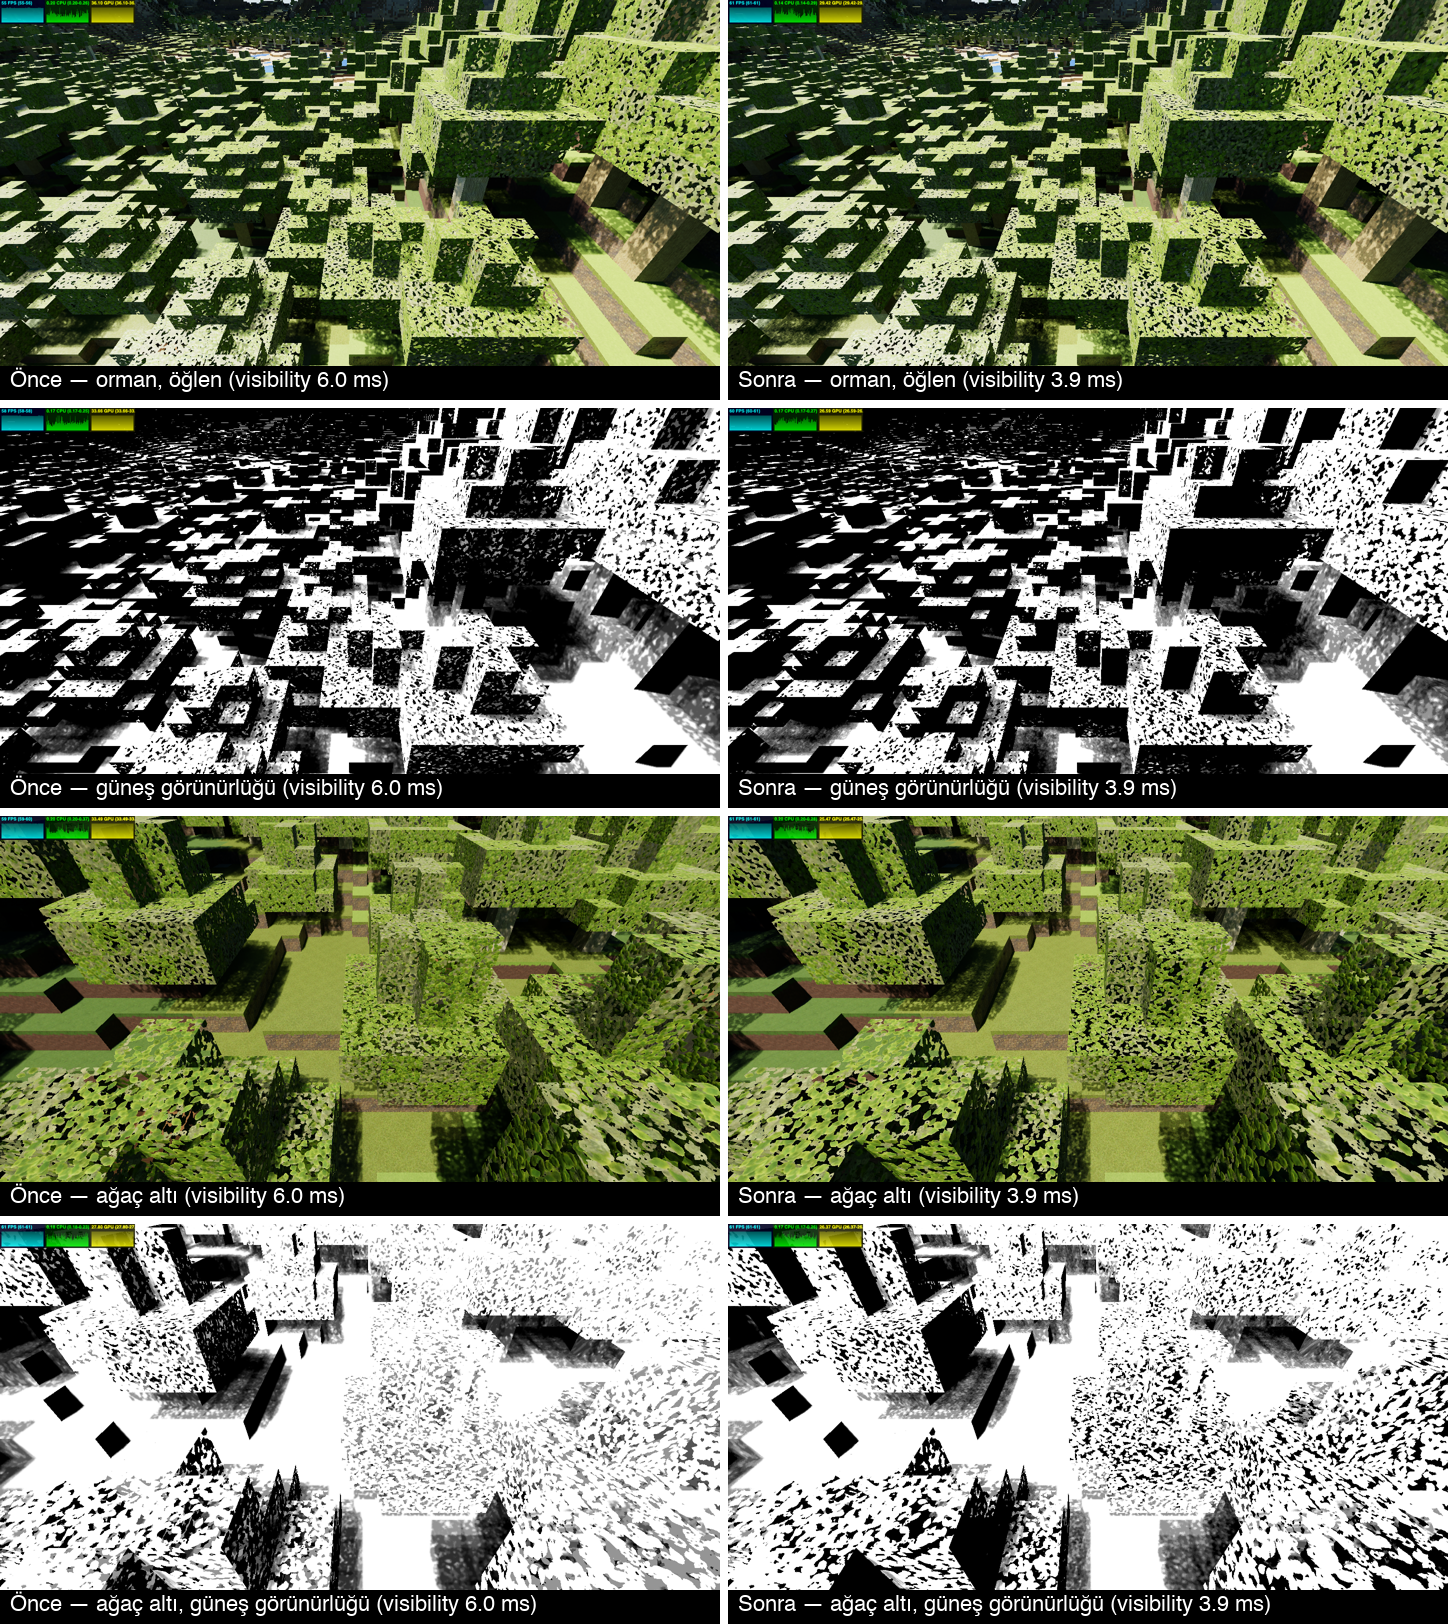
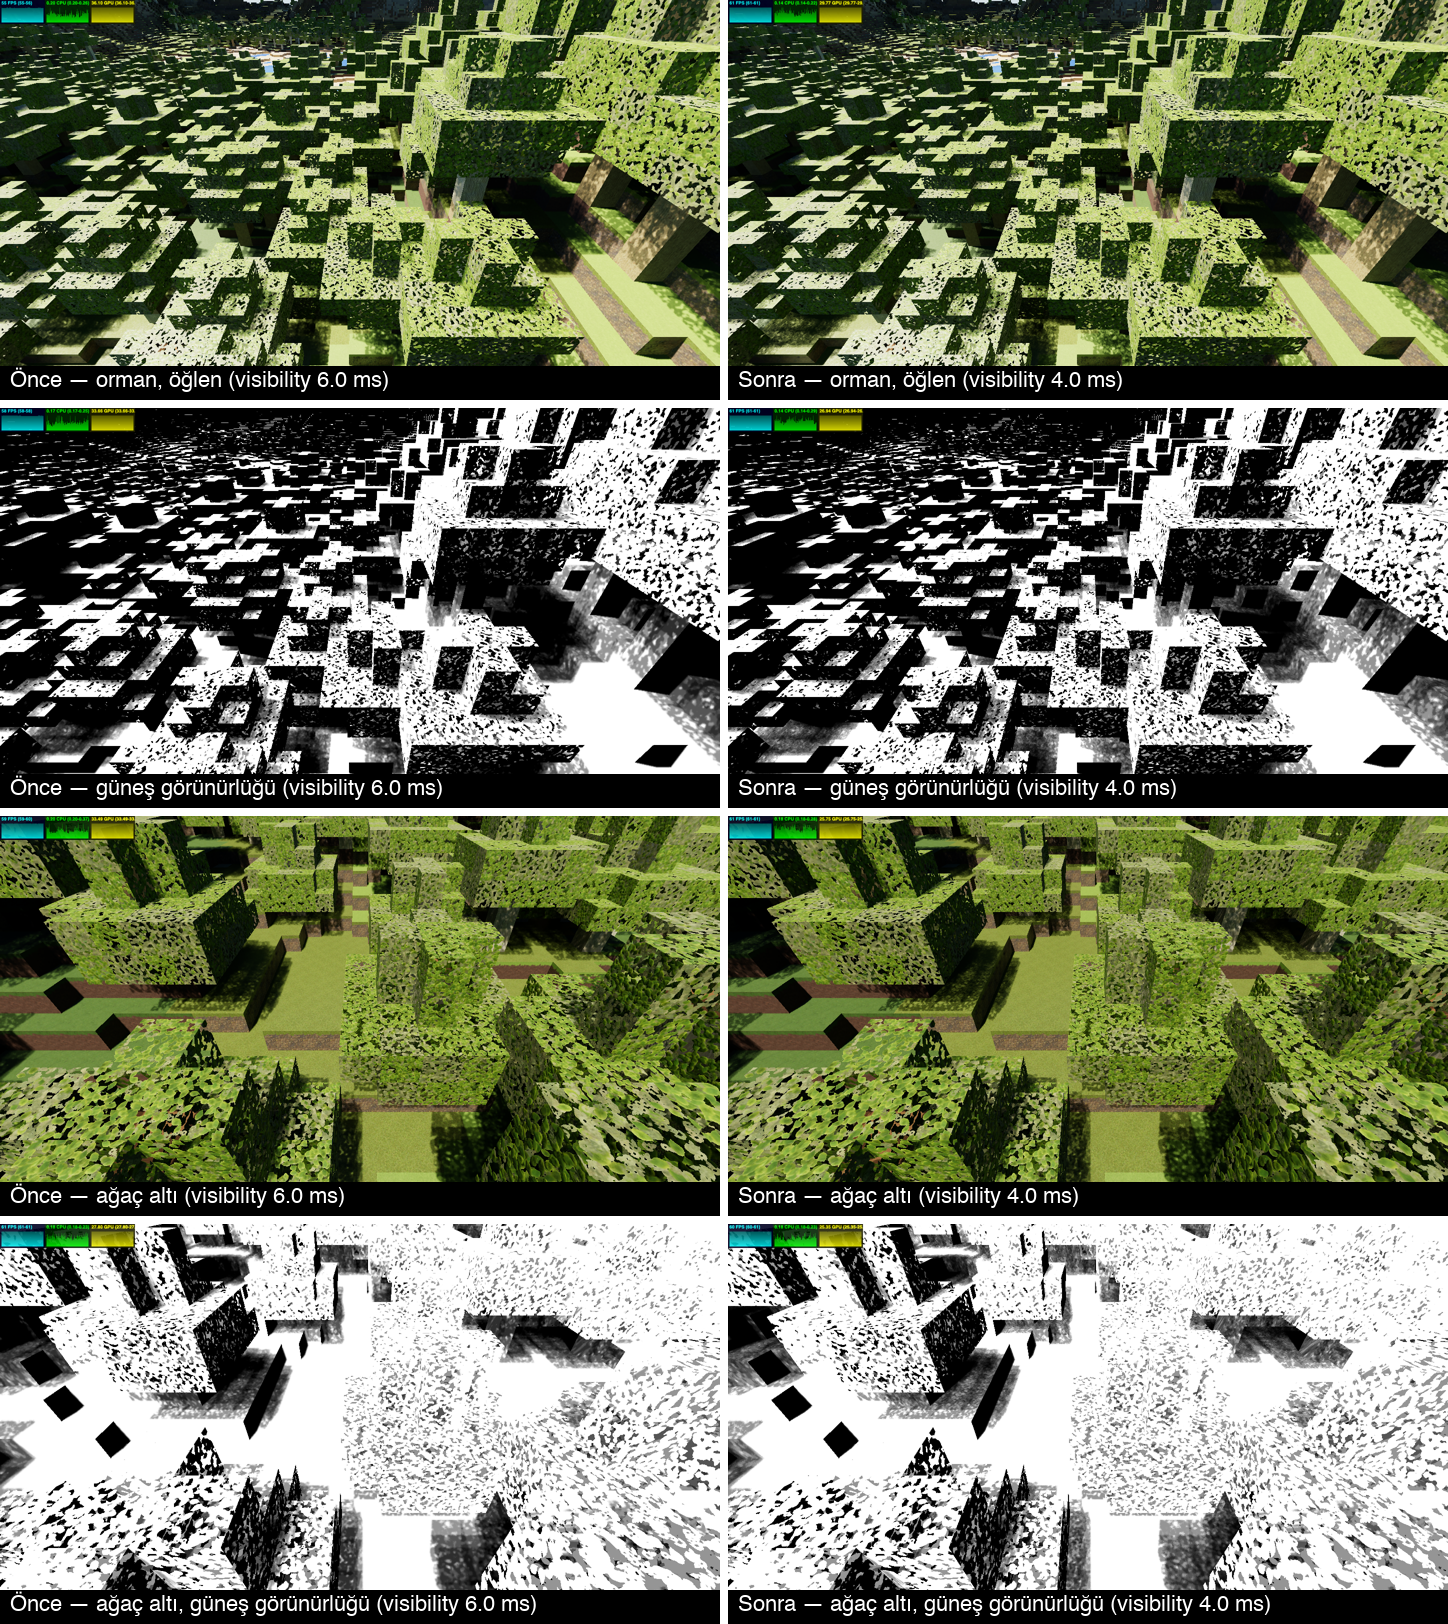
fix: leaf shadow start voxel edge case

diff --git a/src/ui/debug-overlay.ts b/src/ui/debug-overlay.ts
@@ -338,6 +338,7 @@ export class DebugOverlay {
     f.add(l.flicker, 'speed', 0, 10, 0.1).name('flicker speed');
     f.add(l, 'subsurface', 0, 2, 0.05).name('leaf translucency');
     f.add(l, 'leafTransmission', 0, 1, 0.05).name('leaf transmission');
+    f.add(l, 'maxLeafLayers', 1, 12, 1).name('leaf layers light passes');
     f.add(l, 'model', { physical: 'physical', 'debug-fill': 'debug-fill' }).name('lighting');
     f.add(l.debugFill, 'maxDirectToSky', 0, 20, 0.5).name('fill: max sun : sky');
     f.add(l.debugFill, 'ambientFloor', 0, 0.5, 0.01).name('fill: ambient floor');

diff --git a/src/gpu/passes/visibility-pass.ts b/src/gpu/passes/visibility-pass.ts
@@ -156,6 +156,8 @@ export class VisibilityPass implements RenderPass {
     new Uint32Array(p).set([config.trace.maxSteps, block, l.skyVisibilitySteps], 2);
     new Float32Array(p)[5] = l.leafTransmission;
     new Uint32Array(p)[6] = config.gi.enabled ? 0 : 1;
+    // Slightly below t^N so the N-th texel still passes light.
+    new Float32Array(p)[7] = 0.99 * l.leafTransmission ** l.maxLeafLayers;
     this.device.queue.writeBuffer(this.params, 0, p);
     // How fast the camera moves this frame (0 still … 1 fast): translation plus rotation.
     const c = ctx.camera;

diff --git a/src/config.ts b/src/config.ts
@@ -336,6 +336,8 @@ export const config = {
     subsurface: 0.5,
     /** Fraction of light a leaf voxel lets through for shadow / sky rays. */
     leafTransmission: 0.3,
+    /** Shadow rays carry light through at most this many opaque leaf texels. */
+    maxLeafLayers: 6,
     /** 'physical': sun + atmosphere only. 'debug-fill': adds the non-physical fill lights
      *  below, only for comparison (not a fix — GI will supply bounce light). */
     model: 'physical' as 'physical' | 'debug-fill',

diff --git a/CLAUDE.md b/CLAUDE.md
@@ -49,6 +49,6 @@ Tarayıcıda çalışan, fotogerçekçi görüntüye sahip, tek oyunculu bir vox
 - **Performans ölçümü**: per-pass profiler Apple GPU'larında pass'ler arası beklemeyi de sayıyor (değerler şişkin). Karar için F3 → "Benchmark primary" kullan: primary pass'i (ön geçiş dahil) tek komut arabelleğinde N kez art arda çalıştırır; zaman damgası ve duvar saati birlikte raporlanır, ayrıca G-buffer'dan ortalama/%95 adım sayısı. Ölçümler bu Mac'te ±%10 gürültülü; karşılaştırmada birkaç tekrarın minimumu kullanılır. Tekrarlanabilir görüntü için URL: `?cam=x,y,z,yaw,pitch&view=steps&scale=1&wg=8x8&tile=8&dmax=8`. Referans pozlar (seed 1337): spawn `0.5,234,0.5,0,-20`, ufuk `…,90,0`, aşağı `…,200,-55`.
 - **Materyaller** (`scripts/`, `src/gpu/materials.ts`, `src/shaders/material.wgsl`, `mipgen.wgsl`): dokular ambientCG'den (hepsi CC0 1.0) `npm run textures` ile indirilip paketlenir; `scripts/texture-spec.ts` materyal → varyant/kaynak tek kaynağıdır, `assets/CREDITS.md` otomatik yazılır, ham dosyalar (`assets/raw/`) ve paketler (`public/textures/`) git'e girmez. Paketleyici 512 px çalışma boyutunda üretir: gerçek ölçeğe kırpma (blok yüzü = 1 m) + kenar harmanlamasıyla tekrar döşenebilirlik (ton eşitleme ve albedo kalibrasyonu yok: her varyant kaynak dokusunun renginde), yapraklar tekil yaprak sprite'larından saçılır (alfa arka planı ortalama yaprak rengiyle dolu), çim yanı = toprak + tırtıklı çim şeridi, kütük üstü/su/cam/meşale prosedürel. Kanal düzeni LabPBR benzeri: albedo (sRGB + opaklık), normal (XY OpenGL + AO + yükseklik), specular (pürüzsüzlük = 1−√roughness, F0 10 veya 255=metal, SSS, emisyon 0‥254 / 255 = yok). Çalışma zamanında 3 `rgba8unorm` texture_2d_array, mip'ler compute ile (albedo lineer ışıkta ve opaklık ağırlıklı, opaklık √ ile korunur). Paket yoksa düz renkli yedeğe düşer. Yüz başına aynalanmayan TBN (`faceFrame`), varyant blok merkezinde örneklenen düşük frekanslı, domain-warp'lı dünya uzayı noise'undan (`variantRegionScale` 24 blok; aynı tonlu varyantlar bölge/damar oluşturur, dama tahtası olmaz; alfa testli materyaller — yapraklar — ışın yürüyüşünde ucuz kalsın diye hücre hash'i kullanır), 90° döndürme hücre/yüz hash'inden (TBN de döner), filtreleme ışın konisinden türetilen anizotropik gradyanlarla `textureSampleGrad` (compute'ta türev yok). POM yalnızca `pom` bayraklı materyallerde ve `pomMaxDistance` içinde. Alfa testi `traceRay` içindedir: include eden shader `traceOpaque(...)` tanımlar (primary: doku alfa testi; verify/prepass: hep opak — ön geçiş yaprağı dolu sayar, muhafazakâr). Görünmez olabilen tek tip brick'ler voxel voxel yürünür. Materyaller `@group(2)`.
 - **Gökyüzü ve gün döngüsü** (`src/core/time-of-day.ts`, `src/gpu/sky.ts`, `src/shaders/atmosphere*.wgsl`, `sky.wgsl`, `sky-ambient.wgsl`): Hillaire 2020. Birim km; ışık birimi göreli (atmosfer tepesinde güneş = 1) — güneş diski rgba16float'a sığar. Transmittance (256×64) ve çoklu saçılma (32×32) LUT'ları yalnızca `config.sky.atmosphere` değişince, gökyüzü görünümü LUT'u (192×108, katman 0 güneş / 1 ay) her karede; `sky-ambient` tek iş grubuyla baskın ışığın izleyicideki aydınlığını ve yukarı bakan yüzeye gökyüzü ışınımını hesaplar. `TimeOfDay`: enlem + güneş deklinasyonu + saat açısı → yön (+X doğu, +Y yukarı, −Z kuzey); ay güneşi evre açısı kadar geriden izler, gün 0 öğlen tam yeni ay. Baskın ışık: güneş −4°'nin altına inince ay. Ay aydınlığı fiziksel (albedo × disk katı açısı × evre) × `nightBoost`. Yıldızlar gök kutbu etrafında dönen prosedürel küre. Gökyüzü kaynakları `@group(3)`. Opsiyonel alçak pus katmanı (sınır tabakası aerosolü, Mie fazı; varsayılan kapalı): `hazeVisibilityKm` (Koschmieder β = 3.912 / V, 0 = yok), `hazeScaleHeight` — açılırsa bütün LUT'lara girer. `mieAbsorption` 4.4e-3 referans görünümün değeridir. **Aerial perspective** (varsayılan kapalı, panelden açılır) (`aerial-perspective.wgsl`, `AerialPerspectivePass`, Hillaire §5.5): kameraya hizalı 32×32×32 froxel 3D doku, dilimler görüş derinliğinde karesel (`maxDepthKm` 4); texel s kameradan max·((s+1)/N)² derinliğe kadar saçılan ışığı (rgb, güneş + ay, ön-pozlanmış) ve ortalama geçirgenliği (a) tutar. Arazi gölgesinin saçılmaya etkisi yok. Birim: 1 blok = 1 m.
-- **Görünürlük** (`visibility.wgsl`, `temporal.wgsl`): piksel başına baskın ışığın diskine titreşimli bir gölge ışını + kosinüs ağırlıklı kısa menzilli gökyüzü ışını (yapraklar alfa testli → benekli gölge). Işınlar G-buffer derinliğinden yeniden kurulan konumdan, geometrik yüz normali boyunca 1e-3 kaydırılarak başlar. Yapraklar tek traversal'da (ışın yeniden başlatılmaz): gölge ışınında yaprak texel'leri alfa testli (benekli ışık), opak texel ışını durdurmaz, kalan ışığı `leafTransmission` ile çarpar (`traceOpaque` içinde private `leaf_light`), ışık 0.01'in altına inince durur; gökyüzü ışını ilk yaprak texel'inde durur ve `leafTransmission` döner (`skyVisibilitySteps` 32). Olasılıksal 0/1 geçiş denendi ama zamansal komşuluk kırpması kısmi ışığı yok ediyordu; kaba mip'te alfa testi hız kazandırmadı ve delikleri kapattı. Uzamsal filtre 5×5 alanı 2 px aralıklı 3×3 örnekle tarar. Ağaç pozunda visibility 6.0 → 3.9 ms (`docs/visibility-leaves.png`). Varsayılan olarak her karede her 2×2 bloktan yalnızca bir piksel izlenir (dönüşümlü dama). Zamansal pass: geçmiş motion vector ile okunur ve beklenen derinlik + yüzey anahtarı (blok id, materyal, geometrik yüz; önceki karenin `gbuffer0`/derinlik kopyalarıyla) tutmazsa atılır; geçmiş bu karenin 3×3 izlenen komşularının ağırlıklı ortalama ± k·σ'sına kanal kanal kırpılır (görünürlük skaler olduğundan YCoCg gerekmez); geçmiş uzunluğu piksel başına `a` kanalında, üst sınır kamera hızı/dönüşü ve piksel hareketiyle `historyStill` (16) ↔ `historyMoving` (4) arasında kayar. İzlenmeyen ve geçmişi geçersiz piksel aynı karenin komşularından derinlik/yüz ağırlıklı yeniden kurulur. Ardından 5×5 çapraz-bilateral uzamsal filtre (geçmiş kısaysa geniş, yakınsamışsa dar; geçmiş filtrelenmez). Sonuç: r = ışık, g = gökyüzü görünürlüğü, a = geçmiş uzunluğu. GI açıkken gökyüzü ışını atılmaz (g = 1; gökyüzü ışığını GI getirir).
+- **Görünürlük** (`visibility.wgsl`, `temporal.wgsl`): piksel başına baskın ışığın diskine titreşimli bir gölge ışını + kosinüs ağırlıklı kısa menzilli gökyüzü ışını (yapraklar alfa testli → benekli gölge). Işınlar G-buffer derinliğinden yeniden kurulan konumdan, geometrik yüz normali boyunca 1e-3 kaydırılarak başlar. Yapraklar tek traversal'da (ışın yeniden başlatılmaz): gölge ışınında yaprak texel'leri alfa testli (benekli ışık), opak texel ışını durdurmaz, kalan ışığı `leafTransmission` ile çarpar (`traceOpaque` içinde private `leaf_light`), `maxLeafLayers` (6) opak texel'den sonra durur; ışın bir yaprak vokselinin içinde başlarsa (deliklerden görünen iç yapraklar) o voksel de bir katman sayılır — katı sayılınca iç yapraklar siyah kalıyordu; gökyüzü ışını ilk yaprak texel'inde durur ve `leafTransmission` döner (`skyVisibilitySteps` 32). Olasılıksal 0/1 geçiş denendi ama zamansal komşuluk kırpması kısmi ışığı yok ediyordu; kaba mip'te alfa testi hız kazandırmadı ve delikleri kapattı. Uzamsal filtre 5×5 alanı 2 px aralıklı 3×3 örnekle tarar. Ağaç pozunda visibility 6.0 → 3.9 ms (`docs/visibility-leaves.png`). Varsayılan olarak her karede her 2×2 bloktan yalnızca bir piksel izlenir (dönüşümlü dama). Zamansal pass: geçmiş motion vector ile okunur ve beklenen derinlik + yüzey anahtarı (blok id, materyal, geometrik yüz; önceki karenin `gbuffer0`/derinlik kopyalarıyla) tutmazsa atılır; geçmiş bu karenin 3×3 izlenen komşularının ağırlıklı ortalama ± k·σ'sına kanal kanal kırpılır (görünürlük skaler olduğundan YCoCg gerekmez); geçmiş uzunluğu piksel başına `a` kanalında, üst sınır kamera hızı/dönüşü ve piksel hareketiyle `historyStill` (16) ↔ `historyMoving` (4) arasında kayar. İzlenmeyen ve geçmişi geçersiz piksel aynı karenin komşularından derinlik/yüz ağırlıklı yeniden kurulur. Ardından 5×5 çapraz-bilateral uzamsal filtre (geçmiş kısaysa geniş, yakınsamışsa dar; geçmiş filtrelenmez). Sonuç: r = ışık, g = gökyüzü görünürlüğü, a = geçmiş uzunluğu. GI açıkken gökyüzü ışını atılmaz (g = 1; gökyüzü ışığını GI getirir).
 - **Aydınlatma ve pozlama** (`lighting.wgsl`, `exposure.wgsl`, `blit.wgsl`): GGX (Smith height-correlated) + Burley diffuse, yaprak geçirgenliği (arkadan güneş), emisyon; dolaylı ışık GI açıkken GI dokularından (aşağıda), kapalıyken 4b24741'deki yaklaşık formülden: gökyüzü ortam ışığı (sky-view LUT'unun kosinüs ağırlıklı yarıküre integrali, `sky-ambient`) × gökyüzü görünürlüğü × AO + gökyüzü yansıması. İkisi asla toplanmaz. **Işık fizikseldir: sahte/yönsüz dolgu ışığı yok** (`config.lighting.model = 'physical'`); `debug-fill` yalnızca karşılaştırma için eski dolguları (oran tavanı, ortam tabanı, yansıma) açar. Yansıyan ışık GI ile gelecek. Işık dengesi atmosferden (öğlen ~15:1). Aerial perspective açıksa yüzeylere L·T + S uygulanır. Çıktı ön-pozlanmış HDR (Frostbite pre-exposure: gece/gündüz ~10⁵ aralığı f16'da kalsın diye); `exposure.wgsl` 128×72 örnekten 64 kutulu log2 histogram kurar (varsayılan referans gibi tüm kare eşit ağırlıklı, gökyüzü dahil; merkez ağırlığı `centerSigma` ve gökyüzü ağırlığı `skyWeight` opsiyonel), her uçtan %5 atıp ortalamayı `key`'e (0.18) eşler; uyum asimetrik (karanlığa 2 s, aydınlığa 0.5 s), EV telafisi panelde. Karanlığa uyum (göz gibi): pozlama, açıkta (güneş + tüm gökyüzü altında) duran orta gri bir yüzeyin gerektirdiğinden en fazla `maxDarkAdaptationEv` (8) EV fazla olabilir ve karanlığa uyum sabiti `adaptDarkerSeconds` 3.5 s → gündüz mağaraya girince ilk an çok karanlık, ~5 s'de şekiller seçilir, ~8 s'de kasvetli ama görünür; gece (dışarısı da karanlık) tam aralık kullanılır. Taban ışık yok. `docs/gi-cave-adaptation.png`. Aynı pass beyaz dengesini de hesaplar (varsayılan kapalı, panelden açılır): aydınlatıcı = güneş·max(y,0) + gök ışınımı, CAT02 LMS'te von Kries kazançları `strength` (0.4) üssüyle kısmi nötrleme, `adaptSeconds` ile yavaş; manuel modda K → Planck (Kim et al., `core/color-temperature.ts`). Matris `sky.exposure` buffer'ında (sütunlar), blit ton eşlemeden önce uygular. Blit lit görünümde ACES (Hill fit, referans görünüm) ton eşleme yapar; AgX ve AgX "punchy" panelde seçenek; debug görünümlerinde ton eşleme yok. Debug: `shadow`, `skyvis`, `history` (mavi = taze, kırmızı = tam geçmiş). Tekrarlanabilir çekim: URL `&time=18.5` (saati de durdurur). Maliyet için F3 → Sky & lighting → "Benchmark lighting passes".
 - **Global illumination** (`src/gpu/passes/gi-pass.ts`; `gi-common.wgsl`, `restir.wgsl`, `gi-trace.wgsl`, `gi-denoise.wgsl`; `config.gi`): azaltılmış çözünürlükte, bölen `resolutionDivisor` (varsayılan 3: GI pikseli p = tam çözünürlük 3p; 1440×800'de yoğun sahnelerde GI + denoise ≤ ~4.6 ms, 1/2'de 6–8 ms idi). Aşağıda "yarım çözünürlük" bu ızgara demek. Sıra: (1) `prepare` — "guide" dokusu (rgba32uint: derinlik, gölgeleme normali, G-buffer kelimesi (DDA adım bitleri yerine pürüzlülük), düzlem koordinatı = dot(yüz normali, kameraya göre konum) → aynı yüz düzlemindeki pikseller eşit, kenar durdurma için matris yok) + ReSTIR DI başlangıç rezervuarı (ışık listesinden düzgün `candidates` aday, RIS, hedef p̂ = lum(Le) · birim küpün izdüşüm alanı (|lx|+|ly|+|lz|) · cos / d²; önceki karenin nihai rezervuarından zamansal yeniden kullanım, M sınırlı, ışık hâlâ orada mı `getVoxel` ile kontrol); (2) `spatial` — birkaç komşu rezervuar (derinlik/normal uyumlu), yanlılık düzeltmesi yok (basitleştirilmiş); rezervuar ışığı hücresiyle tutar (liste yeniden sıralansa da geçerli); (3) `trace` — yalnızca bu karede izlenen pikseller için kompakt dispatch (`tracePattern`: all / half dama / quarter 2×2 dönen, varsayılan quarter; `tracedPixel` ↔ `isTraced`), piksel başına tek yol: STBN blue noise (kendi üretimimiz, `npm run bluenoise` → `public/blue-noise.bin`, 64×64×16×4 kanal, void-and-cluster ayrılabilir uzay/zaman enerjisi; 16 karelik döngülerde altın oran kaydırması) ile kosinüs ağırlıklı sekme ışını (`range` 48 blok, `maxSteps` 96; ıskalar/menzil dışı → sky-view LUT, güneş diski hariç) veya pürüzsüz yüzeylerde (1−r)² ≥ `specularThreshold` olasılıkla GGX VNDF speküler ışın. Çarpma noktası ekranda görünüyorsa (şimdiki derinlikle doğrulanır) önceki karenin aydınlatılmış görüntüsü motion vector ile okunur (ucuz + çok sekme); değilse güneş gölge ışını (`shadowDistance` 96) + kısa gökyüzü ışını (`skyDistance` 12; kapalı yerler gökyüzü almaz) + (ReSTIR kapalıysa) emisyon, albedo materyalin en kaba mip'inden. Emissive DI: seçilen ışık bloğunun içinde rastgele noktaya gölge ışını. GI ışınlarında yapraklar olasılıksal: geçme olasılığı (1 − doluluk) + doluluk · `leafTransmission` (doluluk = materyal tablosunda ortalama opaklık). Çıktılar ön-pozlanmış (irradiance / radiance), luminance sınırı `fireflyClamp`. (4) `temporal` — motion vector ile önceki yarım-çözünürlük ızgarasından bilineer, her örnek beklenen derinlik + geometrik yüzle doğrulanır; pozlama değişimine göre ölçeklenir (`history_exposure` buffer'ı); ağırlık 1/geçmiş, üst sınır kamera/piksel hareketiyle `historyStill` 32 ↔ `historyMoving` 8; izlenmeyen ve geçmişi olmayan pikseller 3×3 izlenen komşudan; luminance momentleri (rgba32float). (5) `variance` — ≥4 karede zamansal, öncesinde 7×7 uzamsal varyans. (6) `atrousStep` × `atrousIterations` (5) — 3×3 B-spline à-trous (adım 2^i), kenar durdurma: aynı geometrik yüz, düzlem mesafesi (`sigmaPlane` · derinlik · adım), luminance (σ · √varyans, varyans ilk iterasyonda 3×3 bulanık); diffuse ve speküler ayrı (speküler yalnızca pürüzsüz piksellerde, `specularIterations`, pürüzlülük farkı da durdurur). Lighting: 2×2 bilineer + yüz/düzlem testli upsample (hiçbiri uymazsa 3×3 içindeki en iyi); dolaylı = (1−F_env)·albedo/π·E·AO + F_env·(pürüzsüzse L_spec, değilse E/π); F_env = Karis'in çevre BRDF yaklaşımı (Schlick F(n·v) sıyırma açısında pürüzlü taşı aynaya çeviriyordu → ince yüzlerde parlak şeritler). "Aynı yüzey" testleri (temporal, varyans, à-trous, upsample, ReSTIR) düzlem koordinatıyla ve mutlak `planeTolerance` (0.25 blok) ile: paralel voxel yüzleri tam blok aralıklı, derinliğe oranlı tolerans uzakta komşu merdiven yüzlerini karıştırıyordu. Emissive DI ayrı üçüncü sinyal (raw/acc/filt emissive): titreşimsiz biriktirilir ve süzülür (kendi göreli luminance kenar durdurmasıyla), titreme lighting'de uygulanır (`flicker`: dünya uzayında pürüzsüz zaman-uzay gürültüsü, `config.lighting.flicker`) — aksi halde ~2 s'lik zamansal pencere titremeyi yok ederdi. Işık kaynakları: `EmitterRegistry` (`src/world/emitters.ts`) dünya değişikliklerini izler (değişen chunk `indexOf` ile taranır); GPU listesi kameraya en yakın `maxLights` (yarıçap `lightRadius`), kamera `rebuildDistance` kadar kayınca yenilenir; blok başına radyans = black-body rengi (`config.lighting.emitters.<blok>.temperature`, meşale 1950 K; `kelvinToLinearRgb`) × yüz ortalaması `radiance` (ters kare ile söner); lighting'de bu ortalama yalnızca parlayan texel'lere yoğunlaştırılır (÷ emisyon kapsamı, materyal dokusundan), alev yüz ortalamasından çok parlak görünür. Debug: `gi` görünümü (yalnızca dolaylı ışık), panelde GI aç/kapa ve sinyal (denoised / accumulated / raw), "Place test torches", "Benchmark frame breakdown" (primary / visibility / GI trace / denoise / other). URL: `&gi=0`, `&torches=8`. Dev build'de `window.webcraft` (config, renderer, world, emitters, streamer, placeTorches) otomasyon için açık.
